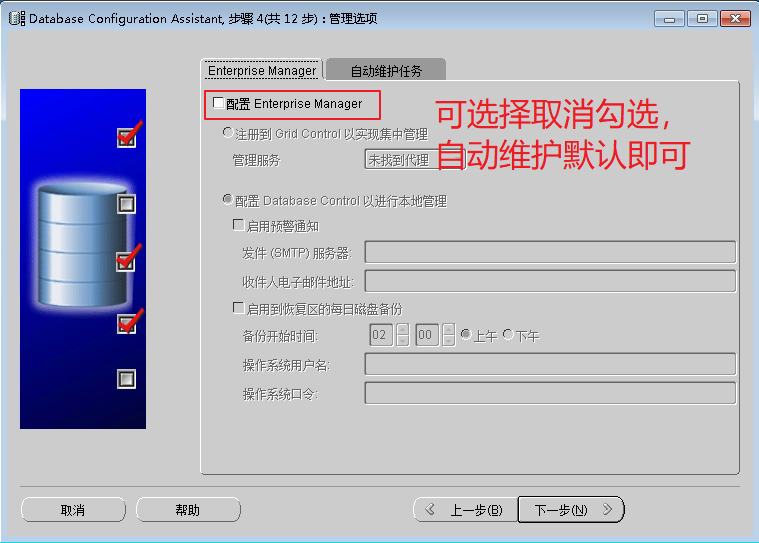
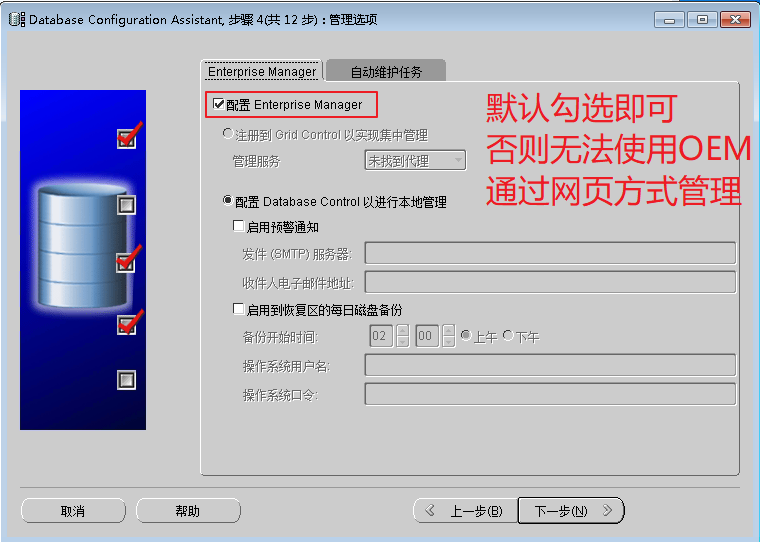
oracle配置

diff --git a/DB/OracleInstall.md b/DB/OracleInstall.md
@@ -4,7 +4,12 @@
     - [Oracle Server安装](#oracle-server安装)
     - [新建实例](#新建实例)
     - [配置监听](#配置监听)
+    - [OEM](#oem)
+        - [未注册监听](#未注册监听)
+        - [EM相关账户解锁](#em相关账户解锁)
+        - [实例化OC4J配置文件是出错](#实例化oc4j配置文件是出错)
     - [用户操作](#用户操作)
+    - [Enterprise Manager (EM) Database Control](#enterprise-manager-em-database-control)
     - [客户端的安装](#客户端的安装)
     - [PL/SQL developer](#plsql-developer)
     - [疑难解答](#疑难解答)
@@ -29,6 +34,10 @@
 ![](..\assets\Oracle\oracle-install-4.png)
 
 ![](..\assets\Oracle\oracle-install-6.png)
+
+在安装过程中会出现一些异常信息，暂时不用管，直接【继续】即可。
+
+![](..\assets\Oracle\oracle-client-install-6-errinfo.png)
 
 <a id="markdown-新建实例" name="新建实例"></a>
 ## 新建实例
@@ -62,7 +71,7 @@
 
 ![](..\assets\Oracle\oracle-db-create-12.png)
 
-正在安装中。。。
+安装过程较为耗时，正在安装中。。。
 
 ![](..\assets\Oracle\oracle-db-create-ing.png)
 
@@ -112,6 +121,159 @@
 
 ![](..\assets\Oracle\oracle-net-listen-srv-8.png)
 
+<a id="markdown-oem" name="oem"></a>
+## OEM
+OEM是啥。。。。。
+
+<a id="markdown-未注册监听" name="未注册监听"></a>
+### 未注册监听
+
+使用DBCA安装OEM时可能会报错：
+
+![](..\assets\Oracle\dbca-emca-数据库服务未注册到监听.png)
+
+打开【Net Manager】进行监听程序-添加数据库的配置：
+
+![](..\assets\Oracle\net-manager-监听配置-添加数据库.png)
+
+需要注意的是【全局数据库名】和【SID】名称不要写错了，Oracle主目录为：【D:\app\123\product\11.2.0\dbhome_1】
+
+再进行修改【tnsnames.ora】和【listener.ora】配置文件：
+
+【tnsnames.ora】：
+```sql
+# tnsnames.ora Network Configuration File: D:\app\123\product\11.2.0\dbhome_1\network\admin\tnsnames.ora
+# Generated by Oracle configuration tools.
+
+# 注意监听HOST修改为ip地址
+IFLYTEK =
+  (DESCRIPTION =
+    (ADDRESS_LIST =
+      (ADDRESS = (PROTOCOL = TCP)(HOST = 172.16.123.250)(PORT = 1521))
+    )
+    (CONNECT_DATA =
+	  (SID = IFLYTEK)
+      (SERVICE_NAME = iflytek)
+    )
+  )
+
+LISTENER_IFLYTEK =
+  (ADDRESS = (PROTOCOL = TCP)(HOST = 172.16.123.250)(PORT = 1521))
+
+
+ORACLR_CONNECTION_DATA =
+  (DESCRIPTION =
+    (ADDRESS_LIST =
+      (ADDRESS = (PROTOCOL = IPC)(KEY = EXTPROC1521))
+    )
+    (CONNECT_DATA =
+      (SID = CLRExtProc)
+      (PRESENTATION = RO)
+    )
+  )
+```
+
+【listener.ora】：
+```sql
+# listener.ora Network Configuration File: D:\app\123\product\11.2.0\dbhome_1\NETWORK\ADMIN\listener.ora
+# Generated by Oracle configuration tools.
+
+# 注意监听HOST修改为ip地址
+SID_LIST_LISTENER =
+  (SID_LIST =
+    (SID_DESC =
+      (SID_NAME = CLRExtProc)
+      (ORACLE_HOME = D:\app\123\product\11.2.0\dbhome_1)
+      (PROGRAM = extproc)
+      (ENVS = "EXTPROC_DLLS=ONLY:D:\app\123\product\11.2.0\dbhome_1\bin\oraclr11.dll")
+    )
+    (SID_DESC =
+      (GLOBAL_DBNAME = IFLYTEK)
+      (ORACLE_HOME = D:\app\123\product\11.2.0\dbhome_1)
+      (SID_NAME = iflytek)
+    )
+  )
+
+LISTENER =
+  (DESCRIPTION =
+    (ADDRESS = (PROTOCOL = TCP)(HOST = 172.16.123.250)(PORT = 1521))
+  )
+
+ADR_BASE_LISTENER = D:\app\123
+
+```
+
+注意，设置以上更改需要进行服务的重启！
+
+https://blog.csdn.net/dave_sunny/article/details/10467579
+
+<a id="markdown-em相关账户解锁" name="em相关账户解锁"></a>
+### EM相关账户解锁
+
+![](..\assets\Oracle\dbca-emca-em相关账户解锁.png)
+
+```
+
+剧情1：郁闷的开始
+使用环境：win8+oracle 11g r2
+前言：不知道是何种原因（多种原因），装好的oracle没有EM，那么就需要自己配置一下
+PS：配置过程出现各种各样的问题，整整弄了一个晚上，现在分享，希望大家不要再走弯路
+
+基本步骤：
+1.设置好监听器， 启动监听：lsnrctl start，查看监听状态：lsnrctl statu
+2.删除dbcontrol：emca -deconfig dbcontrol db
+3.删除EM资料库：emca -repos drop
+4.创建新资料库：emca -repos create 
+5.重新配置dbcontrol：emca -config dbcontrol db
+
+注意：
+        1.cmd要使用管理员方式(否则不能备份文件)
+        2.密码不能太简单，111111即可 (无法对所有EM相关账户解锁)
+        3.sys的密码 记得加权限 111111 as sysdba
+        4.第五步之前请确认解锁状态（理论上需要的三个账号都是open状态）
+
+Sql代码  
+1.--解锁用户   
+2.alter user scott account unlock;   
+3.--查询状态   
+4.select username,account_status from dba_users;   
+5.--重新赋值密码   
+6.alter user sys identified by 111111;  
+--解锁用户
+alter user scott account unlock;
+--查询状态
+select username,account_status from dba_users;
+--重新赋值密码
+alter user sys identified by 111111; 
+下面这句话解决“无法对所有 EM 相关帐户解锁” 的问题(这个不知道有没有效果，如果上面方式不行，那么可尝试) 
+    reg add "HKEY_LOCAL_MACHINE\SOFTWARE\Microsoft\Command Processor" /v "AutoRun" /d "" /f 
+
+运行：
+    1.设置ORACLE_UNQNAME：set ORACLE_UNQNAME=ORCL  set ORACLE_SID= ORCL
+
+    2.启动：emctl  start  dbconsole（如果上面的dbcontrol 配置成功应该是已经运行状态） 
+    3.检测运行状态：emctl  status dbconsole 
+    4.访问地址：https://127.0.0.1:1158/em （注意证书要确认，或者直接执行）
+     5.停止：emctl  stop  dbconsole 
+
+
+剧情2：发现还不行
+
+c:>emctl start dbconsole
+OC4J Configuration issue. /u01/app/oracle/product/11.2.0/dbhome_1/oc4j/j2ee/OC4J_DBConsole_test_orcl not found.
+
+再一次
+c:>emca -config dbcontrol db
+
+这才ok!
+```
+> http://snkcxy.iteye.com/blog/1930506
+
+<a id="markdown-实例化oc4j配置文件是出错" name="实例化oc4j配置文件是出错"></a>
+### 实例化OC4J配置文件是出错
+
+![](..\assets\Oracle\dbca-emca-em实例化OC4J配置出错.png)
+
 <a id="markdown-用户操作" name="用户操作"></a>
 ## 用户操作
 做好以上准备后，我们可以针对数据添加用户并授权，以下操作均在服务端进行
@@ -140,10 +302,63 @@ drop user new_user_name;
 
 -- 同时删除与【new_user_name】相关的表;
 drop user new_user_name cascade;
+
+//授权 
+-- 登录授权;
+grant connect to new_user_name;
+
+-- scott用户为new_user_name赋予表emp的select权限;
+grant select on emp to new_user_name;
+
+-- sys用户为new_user_name赋予表emp的select权限;
+grant select on scott.emp to new_user_name;
+
+-- 授予增删改查权限
+grant select,insert,delete,update on scott.emp to new_user_name;
+
+-- 授予 CONNECT角色和RESOURCE角色
+grant connect,resource to new_user_name;
 ```
 
+CONNECT角色： --是授予最终用户的典型权利，最基本的
+  * ALTER SESSION --修改会话
+  * CREATE CLUSTER --建立聚簇
+  * CREATE DATABASE LINK --建立数据库链接
+  * CREATE SEQUENCE --建立序列
+  * CREATE SESSION --建立会话
+  * CREATE SYNONYM --建立同义词
+  * CREATE VIEW --建立视图
+  
+RESOURCE角色： --是授予开发人员的
+  * CREATE CLUSTER --建立聚簇
+  * CREATE PROCEDURE --建立过程
+  * CREATE SEQUENCE --建立序列
+  * CREATE TABLE --建表
+  * CREATE TRIGGER --建立触发器
+  * CREATE TYPE --建立类型
+
+创建用户【fly】，密码为【1】,并授予connect和resource权限
+```sql
+CREATE USER FLY IDENTIFIED BY 1;
+
+GRANT CONNECT,RESOURCE TO FLY;
+```
+
+以上，即基本的用户创建和权限授予操作。
 
 > https://blog.csdn.net/love_legain/article/details/54291400
+
+<a id="markdown-enterprise-manager-em-database-control" name="enterprise-manager-em-database-control"></a>
+##  Enterprise Manager (EM) Database Control
+Enterprise Manager Database Control 提供了一个基于 Web 的界面，您可以使用这个界面来管理 Oracle 实例和数据库。
+
+要从客户端浏览器访问 Oracle Enterprise Manager Database Control，必须启动 dbconsole 进程。
+
+首先检查OracleDbConsole有没有，
+
+设置ORACLE 11g的ORACLE_HOSTNAME，命令为：C:\Windows\system32>set ORACLE_HOSTNAME=localhost
+
+设置ORACLE 11g的ORACLE_UNQNAME，命令为：C:\Windows\system32>set ORACLE_UNQNAME=orcl
 
 <a id="markdown-客户端的安装" name="客户端的安装"></a>
 ## 客户端的安装
@@ -193,4 +408,4 @@ orcl =
 ### ORA-12541
 连接Oracle时报错ORA-12541: TNS: 无监听程序
 
-需要检查服务端的监听程序配置
+需要检查服务端的监听程序配置，【Net Configuration Assistant】检查本地网络服务名的配置。
